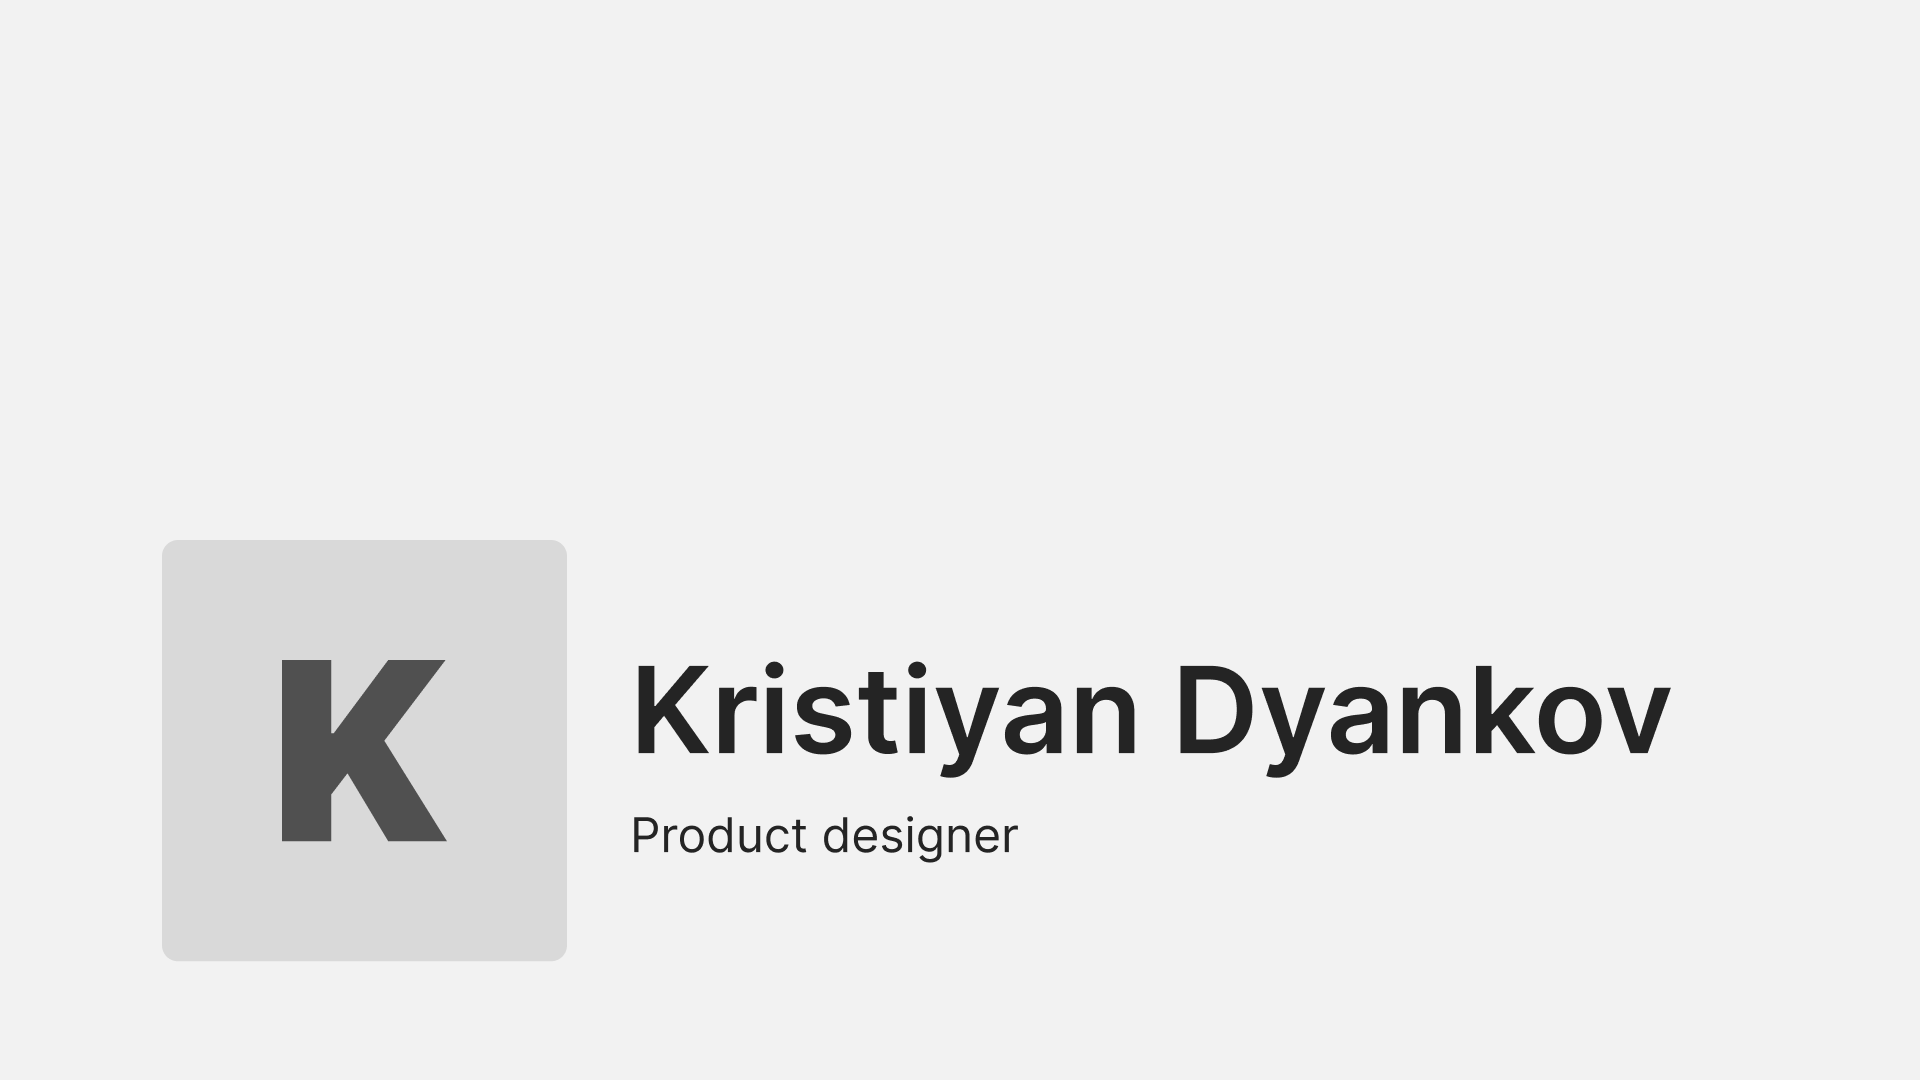
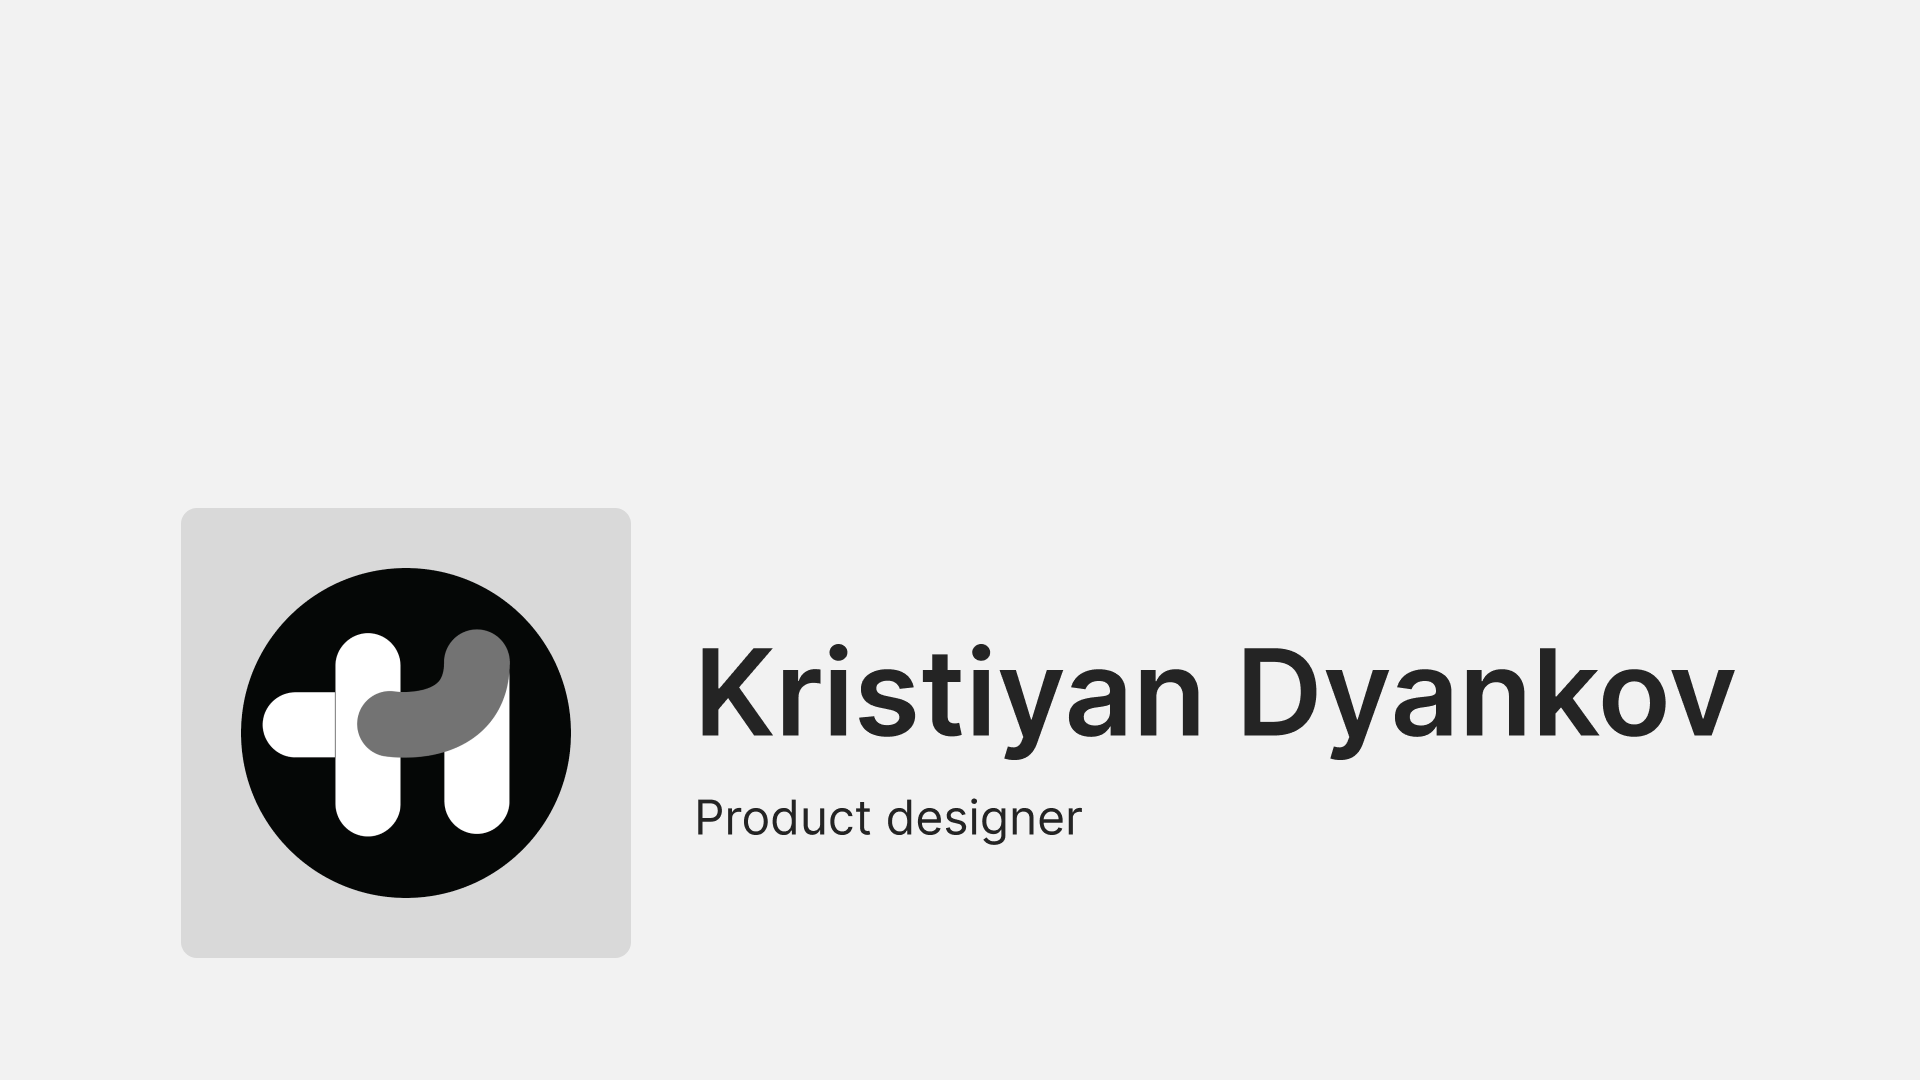
small touches

Changed region(s): [[0.0625, 0.4583, 0.9062, 0.8861]]

diff --git a/components/metadata.js b/components/metadata.js
@@ -4,8 +4,8 @@ export default function Metadata() {
   return (
     <Head>
       <title>Kristyan Dyankov - Product designer</title>
-      <link rel="icon" href="/favicon.ico" />
-      <link rel="icon" href="/favicon.ico" />
+      <link rel="icon" href="/k.ico" />
+      <link rel="icon" href="/k.ico" />
       <meta name="description" content="Product designers" />
       <meta property="og:type" content="website" />
       <meta
@@ -35,8 +35,8 @@ export default function Metadata() {
       />
       <meta name="twitter:site" content="https://www.dyankov.nl" />
       <meta name="twitter:creator" content="Kristyan Dyankov" />
-      <meta name="twitter:image" content="/favicon.ico" />
-      <link rel="apple-touch-icon" href="/favicon.ico" />
+      <meta name="twitter:image" content="/k.ico" />
+      <link rel="apple-touch-icon" href="/k.ico" />
     </Head>
   );
 }
